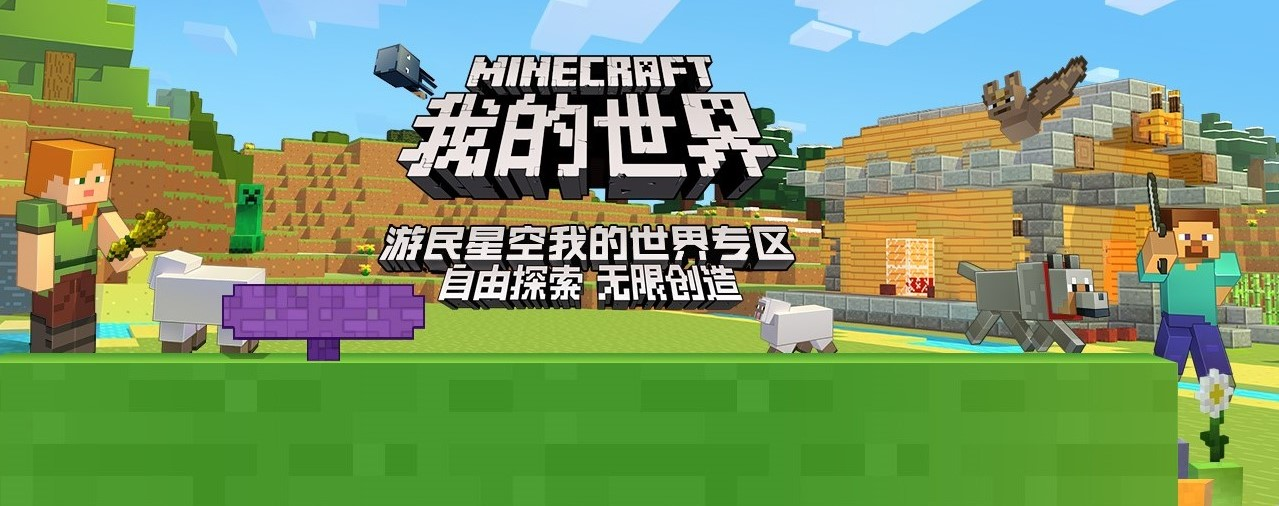
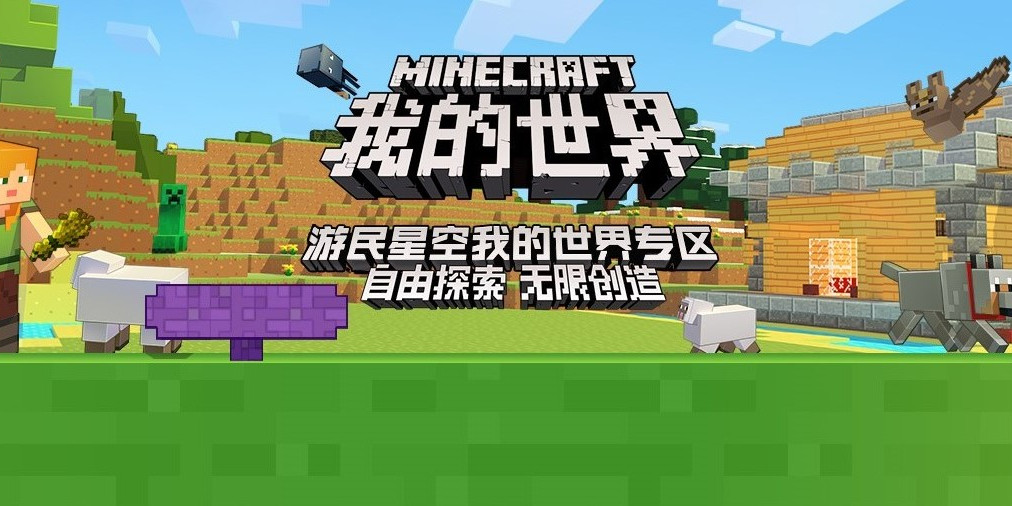
首页图片大小响应式缩放

diff --git a/src/index.html b/src/index.html
@@ -165,13 +165,13 @@
                 <div class="frame_title">NPC介绍</div>
                 <div class="card">
                     <a title="被动型生物" href="./introduce/NPC_buhuanji.html">
-                        <img class="card-icon" src="./img/beidong.jpg" alt="被动型生物" width="240" height="350">
+                        <img class="card-icon" src="./img/beidong.jpg" alt="被动型生物" width="21%">
                     </a>
                     <a title="攻击型生物与传说生物" href="./introduce/NPC_gongji.html">
-                        <img class="card-icon" src="./img/attack.jpg" alt="攻击型生物与传说生物" width="240" height="350">
+                        <img class="card-icon" src="./img/attack.jpg" alt="攻击型生物与传说生物" width="21%">
                     </a>
                     <a title="中立型生物" href="./introduce/NPC_zhongli.html">
-                        <img class="card-icon" src="./img/neutral.jpg" alt="中立型生物" width="240" height="350">
+                        <img class="card-icon" src="./img/neutral.jpg" alt="中立型生物" width="21%">
                     </a>
                 </div>
                 <div class="wenben">我的世界NPC主要分为：攻击型生物和传说生物、中立型,效用型与可驯服型生物、被动型生物。不同的生物有不同的属性，玩家可以根据它们的不同来感受不同的游戏体验
@@ -181,13 +181,13 @@
                 <div class="frame_title">Minecraft 算法分析</div>
                 <div class="card">
                     <a title="地图生成算法" href="./explore/terrain.html">
-                        <img class="card-icon" src="./img/map_creat.jpg" alt="地图生成算法" width="240" height="350">
+                        <img class="card-icon" src="./img/map_creat.jpg" alt="地图生成算法" width="21%">
                     </a>
                     <a title="生物群系" href="./explore/ecosystem.html">
-                        <img class="card-icon" src="./img/123.jpg" alt="生物群系" width="240" height="350">
+                        <img class="card-icon" src="./img/123.jpg" alt="生物群系" width="21%">
                     </a>
                     <a title="爆炸算法" href="./explore/explode.html">
-                        <img class="card-icon" src="./img/1.jpg" alt="爆炸算法" width="240" height="350">
+                        <img class="card-icon" src="./img/1.jpg" alt="爆炸算法" width="21%">
                     </a>
                 </div>
                 <div class="wenben">Minecraft算法主要由地图生成函数、生物群系、爆炸算法等多种算法组成，不同的算法对应产生不同的视觉、听觉效果，现实感很强</div>
@@ -195,18 +195,18 @@
                 <div class="frame_title">Minecraft 各大论坛</div>
                 <div class="card">
                     <a title="最mc我的世界论坛" href="http://www.zuimc.com/">
-                        <img class="card-icon" src="./img/zuimc.png" alt="最mc我的世界论坛" width="500" height="350">
+                        <img class="card-icon" src="./img/zuimc.png" alt="最mc我的世界论坛" width="42%">
                     </a>
                     <a title="4399我的世界论坛" href="http://news.4399.com/wdsj/">
-                        <img class="card-icon" src="./img/4399.jpg" alt="4399我的世界论坛" width="500" height="350">
+                        <img class="card-icon" src="./img/4399.jpg" alt="4399我的世界论坛" width="42%">
                     </a>
                 </div>
                 <div class="card">
                     <a title="多玩我的世界论坛" href="http://mc.duowan.com/">
-                        <img class="card-icon" src="./img/duowan.jpg" alt="多玩我的世界论坛" width="500" height="350">
+                        <img class="card-icon" src="./img/duowan.jpg" alt="多玩我的世界论坛" width="42%">
                     </a>
                     <a title="游民星空我的世界论坛" href="https://www.gamersky.com/z/minecraft/">
-                        <img class="card-icon" src="./img/space.jpg" alt="游民星空我的世界论坛" width="500" height="350">
+                        <img class="card-icon" src="./img/space.jpg" alt="游民星空我的世界论坛" width="42%">
                     </a>
                 </div>
                 <div class="wenben">

diff --git a/src/styles/style.scss b/src/styles/style.scss
@@ -69,7 +69,7 @@
     padding: 10px 15px 15px 10px;
     // display: inline-block;
     >a {
-      margin: 50px;
+      margin: 4%;
     }
   }
 
